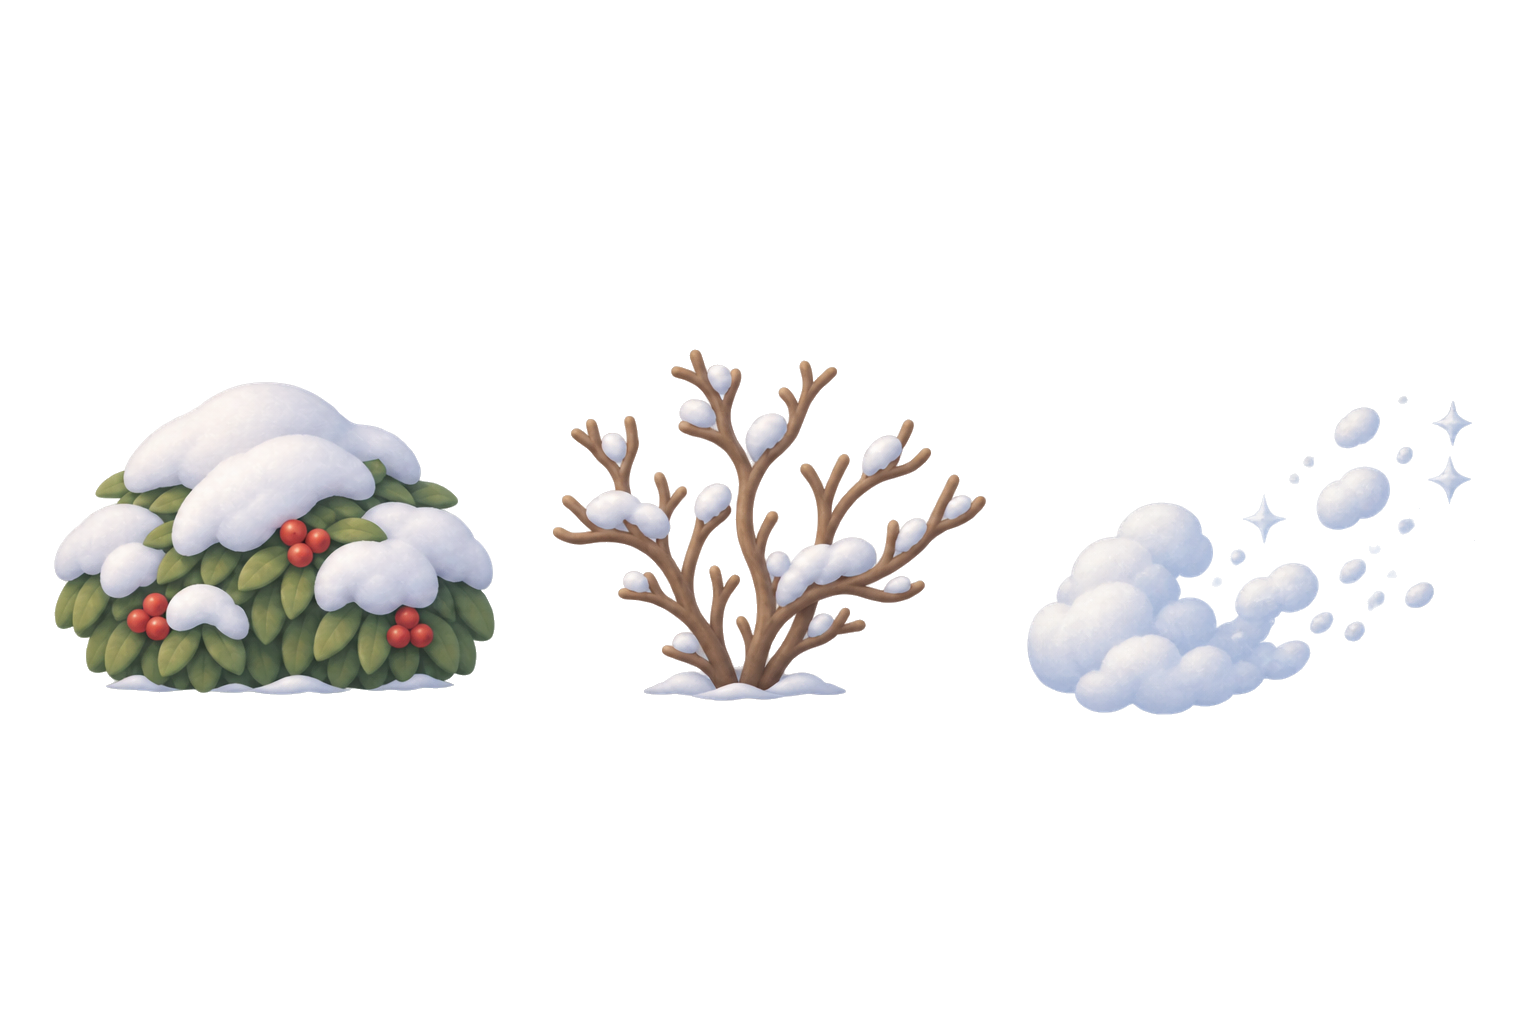
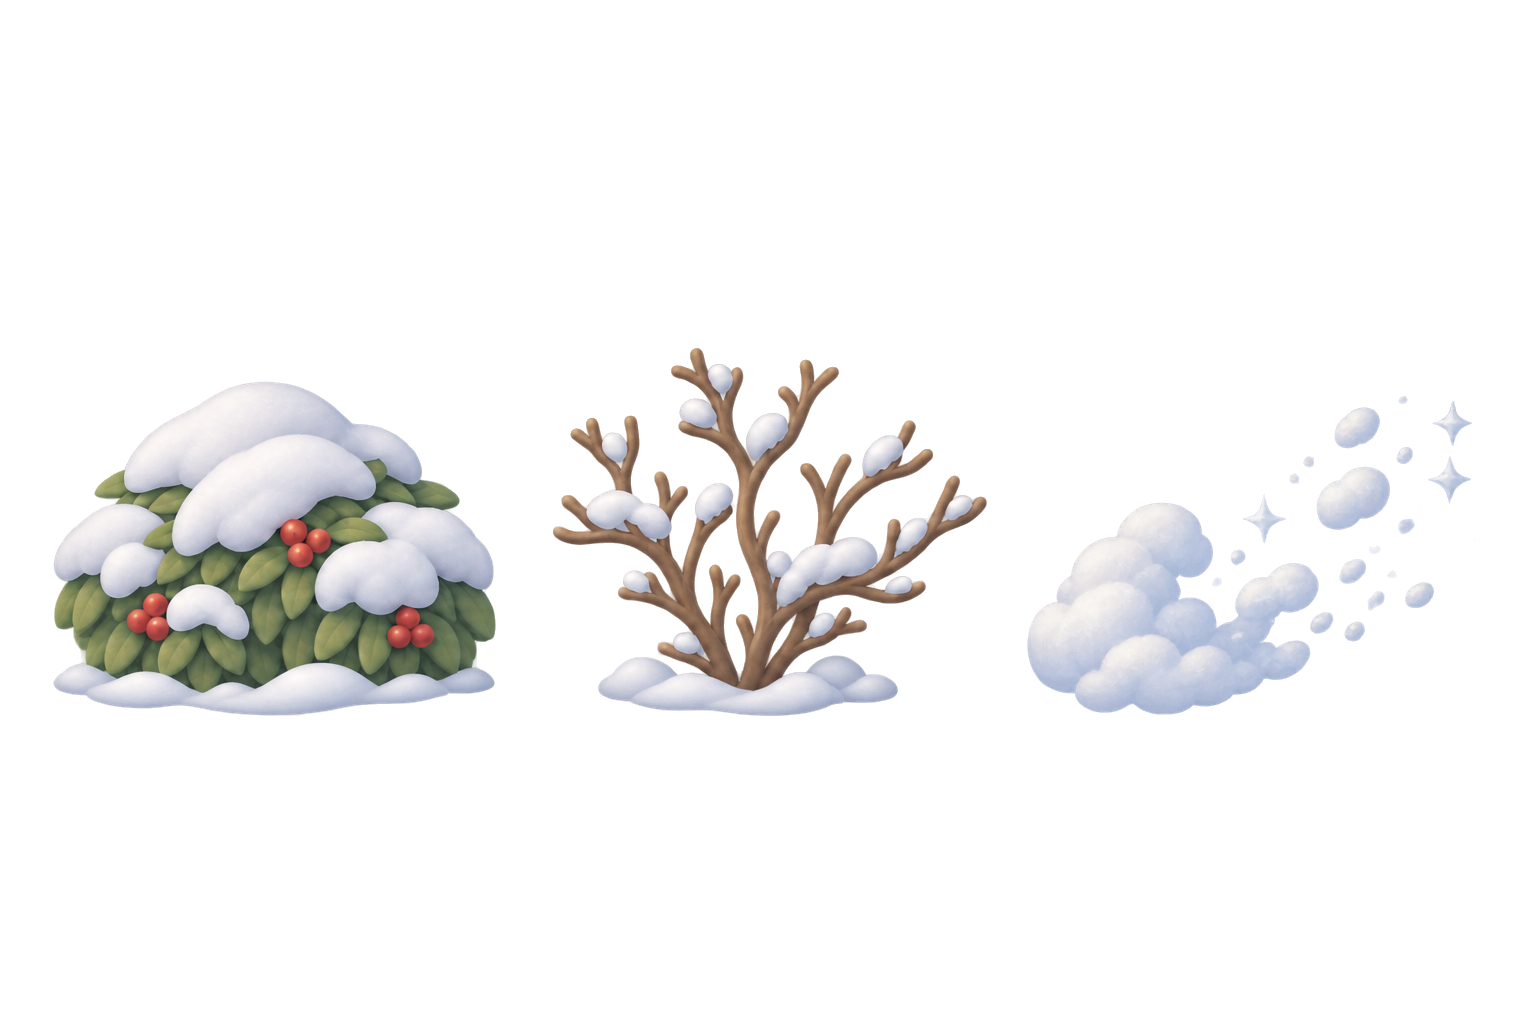
A winter trail ends on the open snow, and its sparrow and magpie sit behind the bush with their tails up
What changed
- trail-rules.js: a trail's end is drawn from the near half of the field (0.5 to 0.85 of its depth) instead of 0.15 to 0.85.
- The sparrow and magpie tails are redrawn as birds sitting behind the bush's crown, heads bowed out of sight, tails raised to the upper left. garden.css places each one with its back over the crown's middle.
- The bush and the bare twigs stand in a low, uneven snow drift instead of ending in a straight cut. The puff is kept.
- The new Codex sources, prompts, hashes and crops are in assets/sources/winter-peeks-2026-11-22, with a note in COLLECTION.md and a CHANGELOG line.

Why
- At the far edge of the field, the small trail bush stood among the larger bushes painted in the backdrop, and in the woodland it was lost.
- The diving birds' upright tails and kicking feet read as a fan or a shell.
- The bush's bottom ended in a flat white strip.

How it was checked
- The tests changed first:
  - trail-rules: every end falls between 0.5 and 0.85;
  - ui-style: each bird stays within the bush's scale, its back over the crown and its cut inside it.
- pnpm test and pnpm run lint pass. The 14 failures are the expected Pillow creator-kit tests.
- Mock-bridge captures in scratch:
  - all eight tails at yard size and album size, on light and dark grounds;
  - the woodland trail end with each bird at day and night, in the wide and the mini window.
[…]

diff --git a/src/styles/garden.css b/src/styles/garden.css
@@ -1178,10 +1178,9 @@
   --x: 17.5;
   --turn: 3deg;
 }
-/* A bird has dived head first into the bush's top: its tail, feet and rump stand up out of the
-   snow over the middle, its cut along the bottom and the fade before it (--fade of the drawing's
-   height, --h) inside the crown. --x is the drawing's left edge. A bird is small beside the bush,
-   so its drawing is about a third of the bush's width. */
+/* A bird sits behind the bush's top, its head down out of sight: its tail and the round of its back
+   stand up over the crown, the tail out to the left, its cut along the bottom and the fade before
+   it (--fade of the drawing's height, --h) inside the crown. --x is the drawing's left edge. */
 .tail-peek.bird > svg.tail {
   left: calc(var(--x) * var(--u));
   height: calc(var(--h) * var(--u));
@@ -1189,18 +1188,18 @@
   mask-image: linear-gradient(to top, transparent, #000 var(--fade, 30%));
 }
 .tail-peek[data-track="sparrow"] {
-  --x: 17.5;
-  --w: 13;
-  --h: 13.6;
-  --lift: 24.5;
-  --turn: -4deg;
+  --x: 12;
+  --w: 17;
+  --h: 9.3;
+  --lift: 27.5;
+  --turn: 0deg;
 }
 .tail-peek[data-track="magpie"] {
-  --x: 18;
-  --w: 11;
-  --h: 16.8;
-  --lift: 24;
-  --turn: 3deg;
+  --x: 8;
+  --w: 25;
+  --h: 15.6;
+  --lift: 25.3;
+  --turn: 0deg;
   --fade: 20%;
 }
 .tail-peek[data-track="cat"] {

diff --git a/src/yard/trail-rules.js b/src/yard/trail-rules.js
@@ -102,6 +102,10 @@ export function trailPath(seed, profile, { taken = [], other = null } = {}) {
   const { left, right, top, bottom } = profile.bounds;
   const bandTop = top + (bottom - top) * 0.15,
     bandHeight = (bottom - top) * 0.7;
+  // The far field runs into the backdrop's own snowy bushes and trees, where the small bush at a
+  // trail's end is lost among them; the trail ends on the near snow instead.
+  const endTop = top + (bottom - top) * 0.5,
+    endHeight = (bottom - top) * 0.35;
   const takenTiles = new Set(taken.map(tileOf));
   for (let attempt = 0; attempt < 20; attempt++) {
     const rng = seeded(seed + attempt);
@@ -114,7 +118,7 @@ export function trailPath(seed, profile, { taken = [], other = null } = {}) {
     let endX;
     if (far) endX = fromLeft ? 0.9 + rng() * 0.04 : 0.06 + rng() * 0.04;
     else endX = 0.25 + rng() * 0.5;
-    const endY = bandTop + rng() * bandHeight;
+    const endY = endTop + rng() * endHeight;
     const count = 5 + Math.floor(rng() * 4);
     let sign = rng() < 0.5 ? 1 : -1;
     const points = [{ x: startX, y: startY }];

diff --git a/assets/art/COLLECTION.md b/assets/art/COLLECTION.md
@@ -177,7 +177,7 @@ Distinct12 objects only. No neighboring items overlap. All silhouettes clean and
 - Accepted sources, prompts, hashes, cut columns and measured boxes:
   `assets/sources/tracks-2026-11-09/accepted-art.json`.
 - Later: the sparrow, the magpie and the bush's base were redrawn on 2026-11-10
-  (see Season art pass).
+  (see Season art pass) and again on 2026-11-22 (see Winter peeks).
 
 ## Spring shoots (2026-11-09)
 
@@ -236,6 +236,18 @@ Distinct12 objects only. No neighboring items overlap. All silhouettes clean and
   three quarters of their size (`shootScale`, `endZoom`).
 - Accepted sources, prompts, hashes, processing and measured boxes:
   `assets/sources/season-leftovers-2026-11-10/accepted-art.json`.
+
+## Winter peeks (2026-11-22)
+
+- The sparrow and magpie tails come from new birds sitting behind the bush with
+  their heads bowed out of sight, the tail raised to the upper left; each crop
+  keeps the rows above the face (tail, back, folded wings).
+- The bush and the bare twigs stand in a low, uneven snow drift instead of
+  ending in a straight cut; the snow puff is kept.
+- The bush and twigs crops keep their width and height, so the other tails keep
+  their places against the bush.
+- Accepted sources, prompts, hashes and measured boxes:
+  `assets/sources/winter-peeks-2026-11-22/accepted-art.json`.
 
 ## Eight more flowers (2026-11-15)
 

diff --git a/CHANGELOG.md b/CHANGELOG.md
@@ -25,6 +25,7 @@ Changes people can see in PlayPets, release by release. The format follows [Keep
 - In the Wild garden, friends walk all the way back across the meadow left of the pond, where ferns and boulders used to stop them, and look smaller the farther back they go.
 - The outdoor pictures meet the sky in a smooth edge: treetops, hills and the meadow's line no longer show a pale, stepped outline.
 - The little Christmas tree is redrawn in gold and cream, in the yard and on Christmas night. Its ornaments stay on its twelve hooks.
+- A winter trail now ends on the open snow in front, where its bush stands out instead of hiding among the bushes painted in the back. The sparrow and the magpie sit behind the bush's snowy top with their tails up, and the bush and the bare twigs stand in a soft drift of snow.
 
 ### Fixed
 
